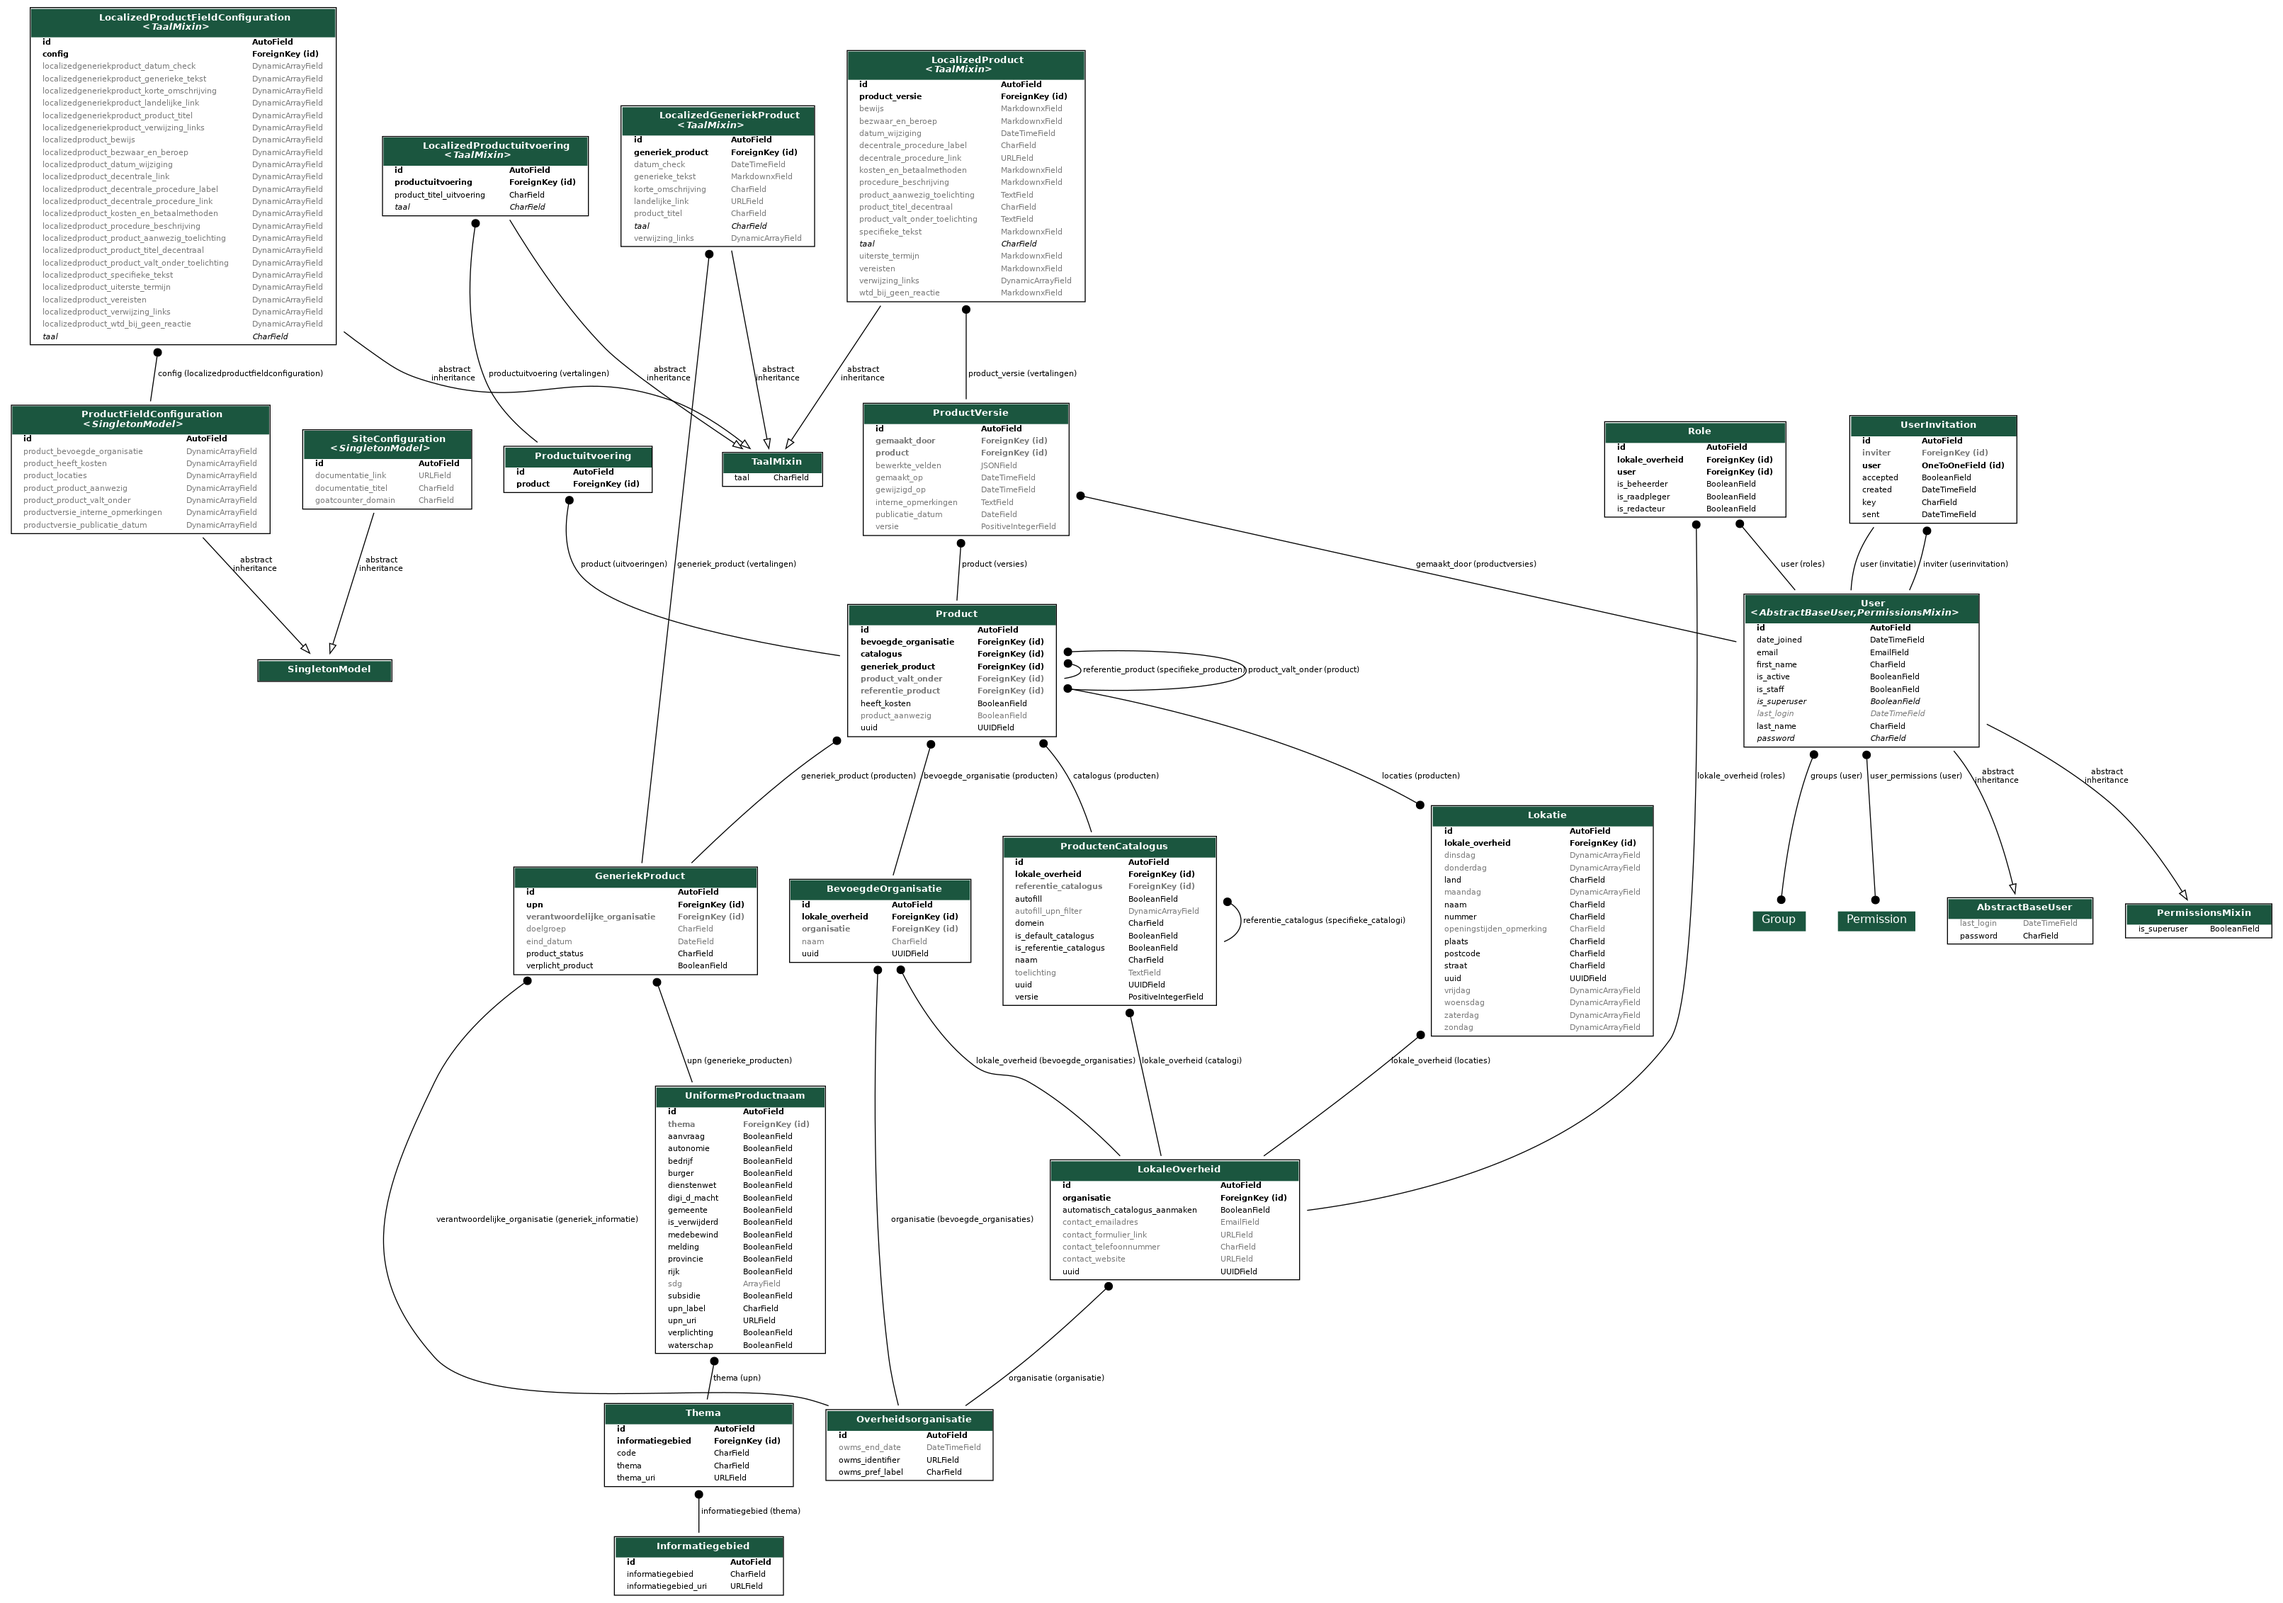
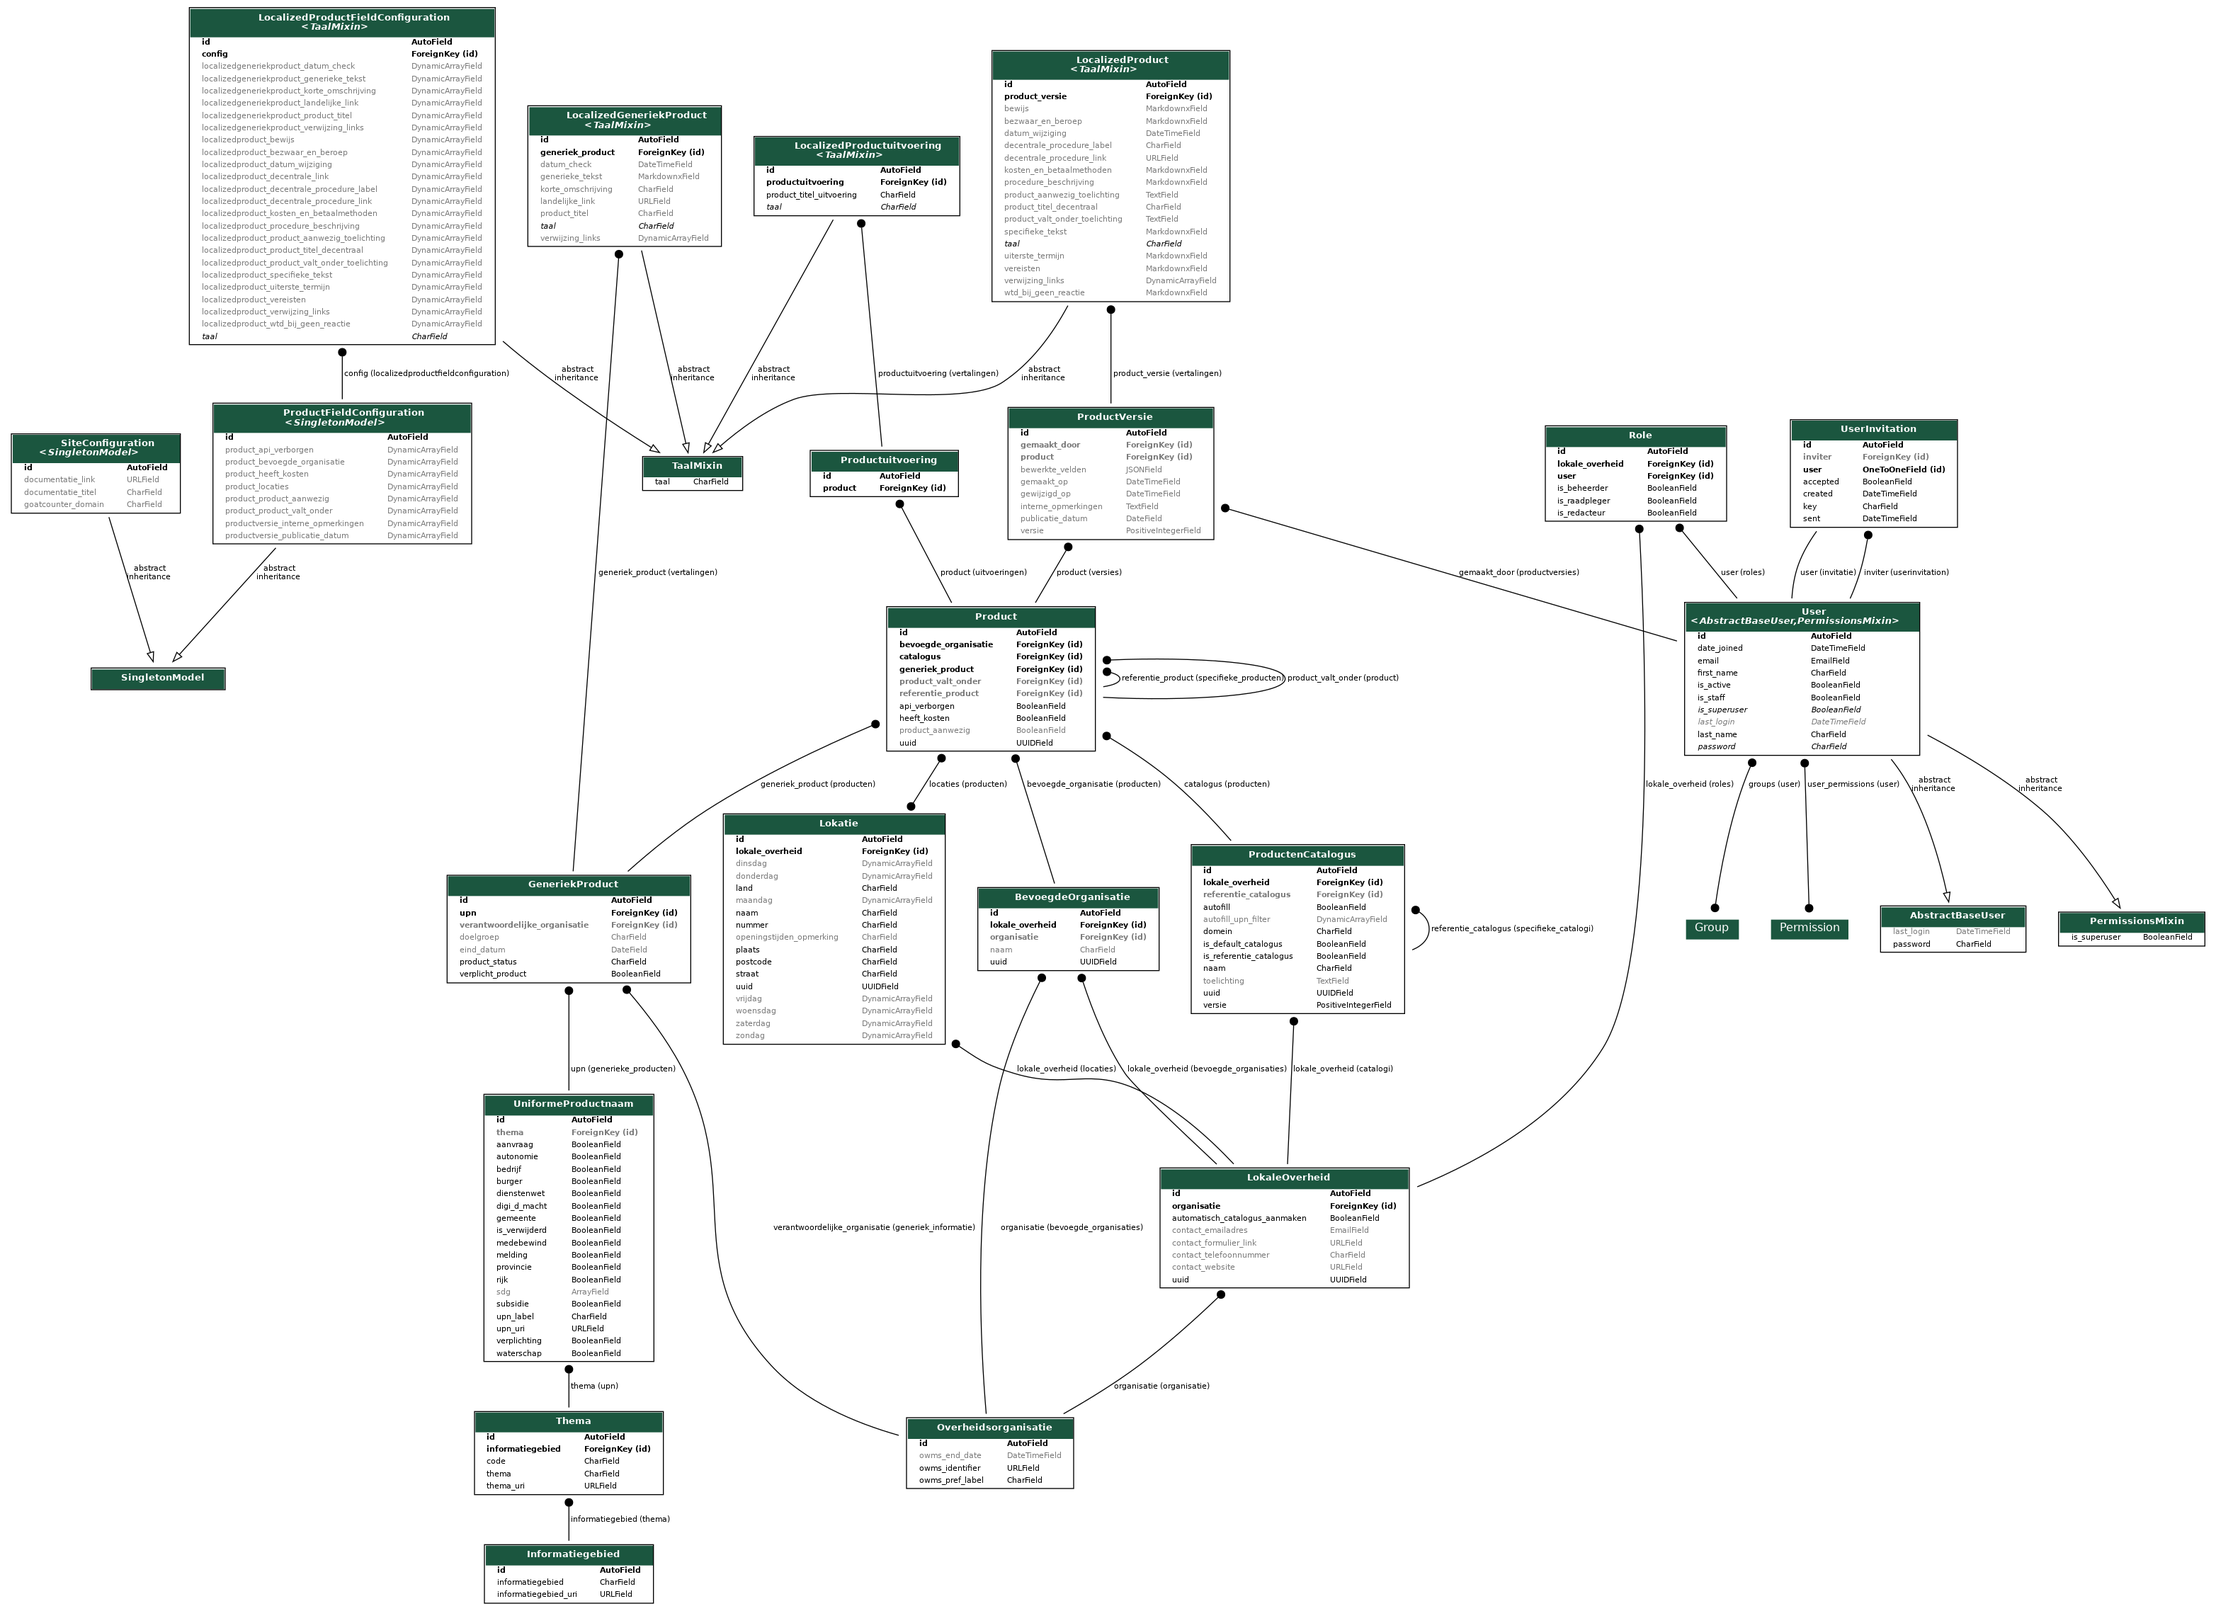
:ok_hand: Process PR feedback — [#845]

diff --git a/src/sdg/templates/producten/update.html b/src/sdg/templates/producten/update.html
@@ -189,7 +189,7 @@
                     {% endwith %}
                 {% endif %}
 
-                {% with field=product_form.api_zichtbaarheid %}
+                {% with field=product_form.api_verborgen %}
                     <tr>
                         <td>
                             <div class="form__control">

diff --git a/src/sdg/core/migrations/0042_productfieldconfiguration_product_api_verborgen.py b/src/sdg/core/migrations/0042_productfieldconfiguration_product_api_verborgen.py
@@ -1,4 +1,4 @@
-# Generated by Django 3.2.16 on 2022-11-28 13:59
+# Generated by Django 3.2.16 on 2022-11-30 12:33
 
 import django.contrib.postgres.fields
 from django.db import migrations, models
@@ -17,7 +17,7 @@ class Migration(migrations.Migration):
     operations = [
         migrations.AddField(
             model_name="productfieldconfiguration",
-            name="product_api_zichtbaarheid",
+            name="product_api_verborgen",
             field=sdg.core.db.fields.DynamicArrayField(
                 base_field=django.contrib.postgres.fields.ArrayField(
                     base_field=models.CharField(max_length=512), size=None
@@ -25,7 +25,7 @@ class Migration(migrations.Migration):
                 blank=True,
                 default=list,
                 size=None,
-                verbose_name="Zichtbaarheid",
+                verbose_name="Verborgen",
             ),
         ),
     ]

diff --git a/src/sdg/api/tests/test_producten.py b/src/sdg/api/tests/test_producten.py
@@ -340,7 +340,7 @@ class ProductenTests(APITestCase):
     def test_list_producten_with_api_visibility_hidden(self):
         list_url = reverse("api:product-list")
 
-        self.product.api_zichtbaarheid = False
+        self.product.api_verborgen = True
         self.product.save()
         self.product_versie.refresh_from_db()
 
@@ -363,7 +363,7 @@ class ProductenTests(APITestCase):
     def test_retrieve_product_by_uuid_with_visibility_hidden(self):
         detail_url = reverse("api:product-detail", args=[self.product.uuid])
 
-        self.product.api_zichtbaarheid = False
+        self.product.api_verborgen = True
         self.product.save()
         self.product_versie.refresh_from_db()
 

diff --git a/src/sdg/producten/migrations/0043_product_api_verborgen.py b/src/sdg/producten/migrations/0043_product_api_verborgen.py
@@ -1,4 +1,4 @@
-# Generated by Django 3.2.16 on 2022-11-28 13:59
+# Generated by Django 3.2.16 on 2022-11-30 12:33
 
 from django.db import migrations, models
 
@@ -12,11 +12,11 @@ class Migration(migrations.Migration):
     operations = [
         migrations.AddField(
             model_name="product",
-            name="api_zichtbaarheid",
+            name="api_verborgen",
             field=models.BooleanField(
-                default=True,
+                default=False,
                 help_text="Verbergen voor Nationale Portalen.",
-                verbose_name="zichtbaarheid",
+                verbose_name="verbogen",
             ),
         ),
     ]

diff --git a/src/sdg/producten/forms.py b/src/sdg/producten/forms.py
@@ -120,8 +120,8 @@ class ProductForm(FieldConfigurationMixin, forms.ModelForm):
         widget=CheckboxSelectMultiple(),
     )
     heeft_kosten = BooleanChoiceField()
-    api_zichtbaarheid = BooleanChoiceField(
-        label=_("zichtbaarheid"),
+    api_verborgen = BooleanChoiceField(
+        label=_("verborgen"),
     )
 
     class Meta:
@@ -132,7 +132,7 @@ class ProductForm(FieldConfigurationMixin, forms.ModelForm):
             "bevoegde_organisatie",
             "locaties",
             "heeft_kosten",
-            "api_zichtbaarheid",
+            "api_verborgen",
         )
 
     def _help_text(self, field):

diff --git a/src/sdg/producten/models/product.py b/src/sdg/producten/models/product.py
@@ -206,10 +206,10 @@ class Product(ProductFieldMixin, models.Model):
         help_text=_("Heeft dit product kosten?"),
         default=False,
     )
-    api_zichtbaarheid = models.BooleanField(
-        _("zichtbaarheid"),
+    api_verborgen = models.BooleanField(
+        _("verbogen"),
         help_text=_("Verbergen voor Nationale Portalen."),
-        default=True,
+        default=False,
     )
 
     objects = ProductQuerySet.as_manager()

diff --git a/src/sdg/core/models/config.py b/src/sdg/core/models/config.py
@@ -43,8 +43,8 @@ class ProductFieldConfiguration(SingletonModel):
     productversie_interne_opmerkingen = LabeledTooltipField(
         verbose_name=_("Interne opmerkingen"),
     )
-    product_api_zichtbaarheid = LabeledTooltipField(
-        verbose_name=_("Zichtbaarheid"),
+    product_api_verborgen = LabeledTooltipField(
+        verbose_name=_("Verborgen"),
     )
 
     def for_field(self, prefix, name):

diff --git a/src/sdg/core/admin/config.py b/src/sdg/core/admin/config.py
@@ -79,7 +79,7 @@ class ProductFieldConfigurationAdmin(SingletonModelAdmin):
                     "productversie_publicatie_datum",
                     "product_product_valt_onder",
                     "product_heeft_kosten",
-                    "product_api_zichtbaarheid",
+                    "product_api_verborgen",
                 ],
             },
         )

diff --git a/src/sdg/api/views/producten.py b/src/sdg/api/views/producten.py
@@ -161,7 +161,7 @@ class ProductViewSet(
     lookup_field = "uuid"
     queryset = (
         Product.objects.active_organization()
-        .filter(api_zichtbaarheid=True)
+        .filter(api_verborgen=False)
         .select_related(
             "catalogus",
             "catalogus__lokale_overheid",

diff --git a/src/sdg/producten/admin/product.py b/src/sdg/producten/admin/product.py
@@ -167,7 +167,7 @@ class ProductAdmin(admin.ModelAdmin):
         "is_referentie",
         "product_aanwezig",
         "latest_publication_date",
-        "api_zichtbaarheid",
+        "api_verborgen",
     )
     list_filter = (
         IsReferenceProductFilter,
